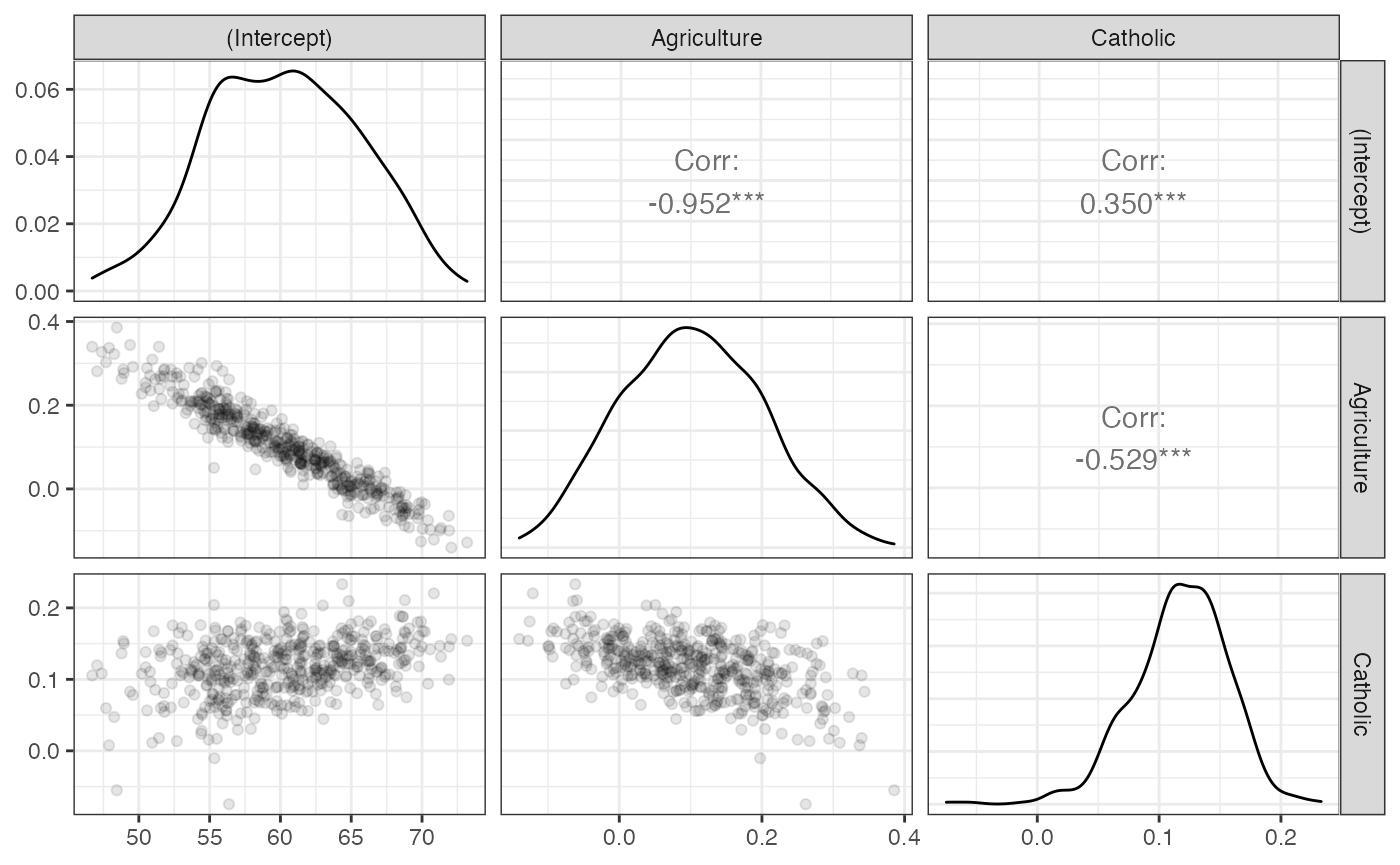
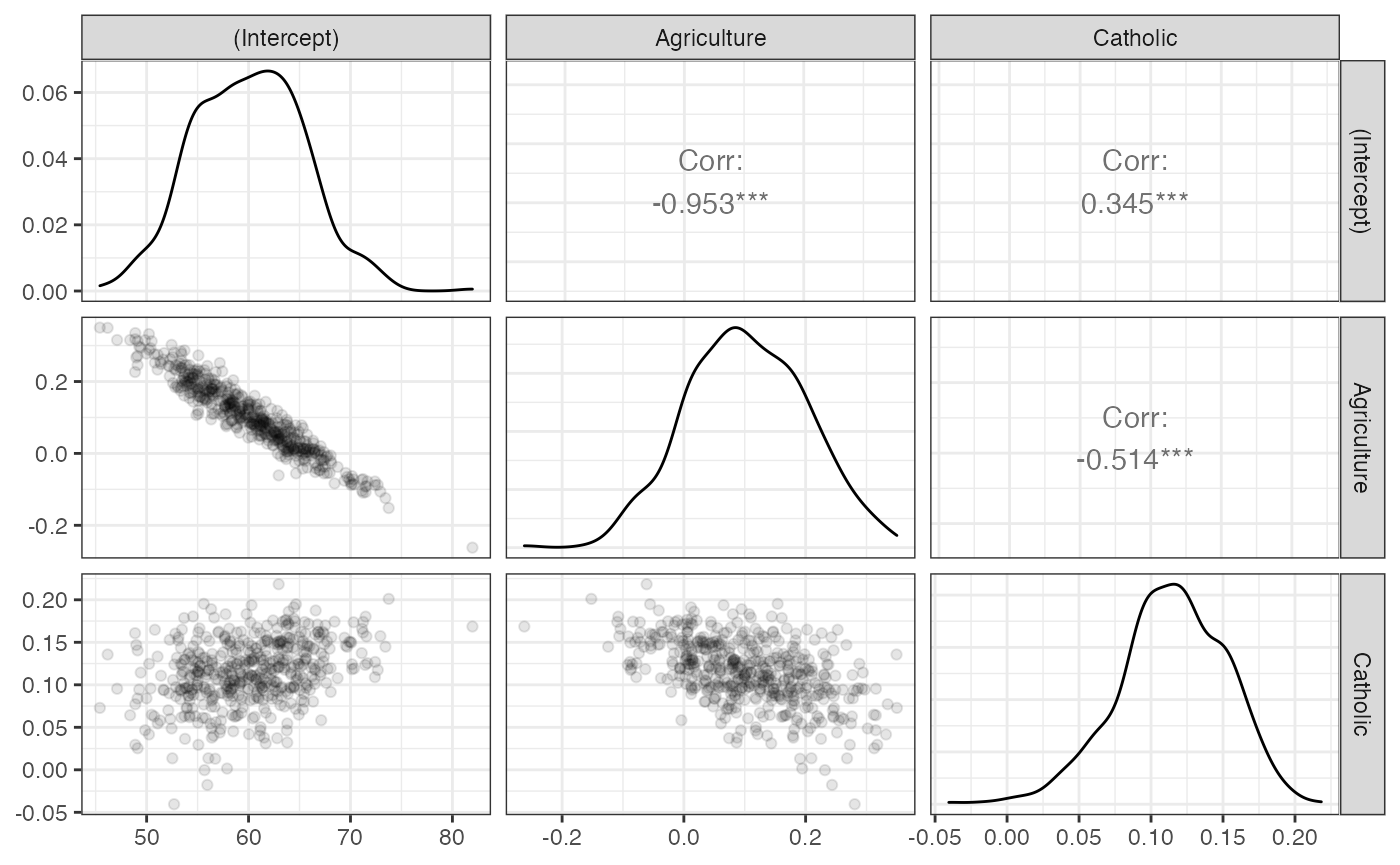
Deploying to gh-pages from  @ 894de3af3aa34b9bc925566d8cc52f96c9a7a11e 🚀

diff --git a/r/estimatr/articles/estimatr-in-the-tidyverse.html b/r/estimatr/articles/estimatr-in-the-tidyverse.html
@@ -248,7 +248,7 @@
 <col width="11%">
 <col width="10%">
 <col width="9%">
-<col width="9%">
+<col width="10%">
 <col width="9%">
 <col width="10%">
 <col width="10%">
@@ -271,72 +271,72 @@
 <tr class="odd">
 <td align="left">1</td>
 <td align="left">(Intercept)</td>
-<td align="right">54.3661192</td>
-<td align="right">4.9915686</td>
-<td align="right">10.891590</td>
+<td align="right">67.3984832</td>
+<td align="right">3.0311110</td>
+<td align="right">22.2355710</td>
 <td align="right">0.0000000</td>
-<td align="right">44.3062737</td>
-<td align="right">64.4259648</td>
+<td align="right">61.2896805</td>
+<td align="right">73.5072860</td>
 <td align="right">44</td>
 <td align="left">Fertility</td>
 </tr>
 <tr class="even">
 <td align="left">1</td>
 <td align="left">Catholic</td>
-<td align="right">0.1758683</td>
-<td align="right">0.0386889</td>
-<td align="right">4.545705</td>
-<td align="right">0.0000425</td>
-<td align="right">0.0978960</td>
-<td align="right">0.2538406</td>
+<td align="right">0.1332200</td>
+<td align="right">0.0265737</td>
+<td align="right">5.0132218</td>
+<td align="right">0.0000092</td>
+<td align="right">0.0796641</td>
+<td align="right">0.1867758</td>
 <td align="right">44</td>
 <td align="left">Fertility</td>
 </tr>
 <tr class="odd">
 <td align="left">1</td>
 <td align="left">Agriculture</td>
-<td align="right">0.2012890</td>
-<td align="right">0.1085682</td>
-<td align="right">1.854032</td>
-<td align="right">0.0704455</td>
-<td align="right">-0.0175159</td>
-<td align="right">0.4200939</td>
+<td align="right">0.0036517</td>
+<td align="right">0.0514052</td>
+<td align="right">0.0710381</td>
+<td align="right">0.9436894</td>
+<td align="right">-0.0999486</td>
+<td align="right">0.1072521</td>
 <td align="right">44</td>
 <td align="left">Fertility</td>
 </tr>
 <tr class="even">
 <td align="left">2</td>
 <td align="left">(Intercept)</td>
-<td align="right">55.5625625</td>
-<td align="right">6.2491799</td>
-<td align="right">8.891177</td>
+<td align="right">69.4111854</td>
+<td align="right">6.4872572</td>
+<td align="right">10.6996197</td>
 <td align="right">0.0000000</td>
-<td align="right">42.9681679</td>
-<td align="right">68.1569571</td>
+<td align="right">56.3369775</td>
+<td align="right">82.4853933</td>
 <td align="right">44</td>
 <td align="left">Fertility</td>
 </tr>
 <tr class="odd">
 <td align="left">2</td>
 <td align="left">Catholic</td>
-<td align="right">0.1123833</td>
-<td align="right">0.0337585</td>
-<td align="right">3.329041</td>
-<td align="right">0.0017693</td>
-<td align="right">0.0443476</td>
-<td align="right">0.1804190</td>
+<td align="right">0.1553858</td>
+<td align="right">0.0333571</td>
+<td align="right">4.6582544</td>
+<td align="right">0.0000295</td>
+<td align="right">0.0881590</td>
+<td align="right">0.2226126</td>
 <td align="right">44</td>
 <td align="left">Fertility</td>
 </tr>
 <tr class="even">
 <td align="left">2</td>
 <td align="left">Agriculture</td>
-<td align="right">0.1474588</td>
-<td align="right">0.1105254</td>
-<td align="right">1.334161</td>
-<td align="right">0.1890153</td>
-<td align="right">-0.0752906</td>
-<td align="right">0.3702082</td>
+<td align="right">-0.0758064</td>
+<td align="right">0.1277937</td>
+<td align="right">-0.5931933</td>
+<td align="right">0.5560888</td>
+<td align="right">-0.3333576</td>
+<td align="right">0.1817449</td>
 <td align="right">44</td>
 <td align="left">Fertility</td>
 </tr>
@@ -350,9 +350,9 @@
 <pre><code>## # A tibble: 3 x 2
 ##   term        boot_se
 ##   &lt;chr&gt;         &lt;dbl&gt;
-## 1 (Intercept)  5.28  
-## 2 Agriculture  0.0981
-## 3 Catholic     0.0393</code></pre>
+## 1 (Intercept)  5.38  
+## 2 Agriculture  0.0984
+## 3 Catholic     0.0380</code></pre>
 <div class="sourceCode" id="cb15"><pre class="downlit sourceCode r">
 <code class="sourceCode R"><span class="co"># To visualize the sampling distribution</span>
 

diff --git a/r/estimatr/articles/absorbing-fixed-effects.html b/r/estimatr/articles/absorbing-fixed-effects.html
@@ -191,9 +191,9 @@
 <span class="op">)</span></code></pre></div>
 <pre><code>## Unit: milliseconds
 ##             expr       min        lq      mean    median        uq      max
-##  base + sandwich 168.34029 173.19755 188.28739 176.08135 183.64563 329.7672
-##        lm_robust  76.38909  78.98336  82.09823  79.97187  82.87619 100.2672
-##  lm_robust + fes  46.28101  49.48354  53.80830  50.46210  52.25601 181.2666
+##  base + sandwich 170.00203 176.20535 189.79725 179.90318 183.49673 302.8220
+##        lm_robust  79.02297  81.55357  85.58954  84.37711  86.56606 109.9795
+##  lm_robust + fes  49.84916  51.60572  56.35871  52.74167  54.52213 191.3705
 ##  neval cld
 ##     50   c
 ##     50  b 
@@ -220,14 +220,14 @@
   times <span class="op">=</span> <span class="fl">50</span>
 <span class="op">)</span></code></pre></div>
 <pre><code>## Unit: milliseconds
-##             expr        min         lq      mean     median        uq       max
-##  base + sandwich 168.874789 173.927649 189.36860 177.292975 183.93450 310.90597
-##        lm_robust  58.094615  62.384466  66.00093  64.610485  67.80105 103.48640
-##  lm_robust + fes   6.972247   7.532425   8.42899   7.952552   8.45469  14.77249
-##  neval cld
-##     50   c
-##     50  b 
-##     50 a</code></pre>
+##             expr        min         lq       mean     median        uq
+##  base + sandwich 171.714344 177.045024 191.895777 179.739116 184.88900
+##        lm_robust  61.598062  64.492732  68.686427  68.079284  70.87183
+##  lm_robust + fes   7.468857   7.767981   8.794351   8.350571   8.95299
+##        max neval cld
+##  316.20437    50   c
+##   91.76514    50  b 
+##   13.68861    50 a</code></pre>
 </div>
   </div>
 

diff --git a/r/estimatr/reference/starprep.html b/r/estimatr/reference/starprep.html
@@ -239,7 +239,7 @@ the preferred, robust statistics.</p>
           omit.stat <span class='op'>=</span> <span class='st'>"f"</span><span class='op'>)</span>
 </div><div class='output co'>#&gt; 
 #&gt; % Table created by stargazer v.5.2.2 by Marek Hlavac, Harvard University. E-mail: hlavac at fas.harvard.edu
-#&gt; % Date and time: Fri, Jun 11, 2021 - 23:08:18
+#&gt; % Date and time: Sat, Jun 12, 2021 - 23:07:36
 #&gt; \begin{table}[!htbp] \centering 
 #&gt;   \caption{} 
 #&gt;   \label{} 
@@ -279,7 +279,7 @@ the preferred, robust statistics.</p>
           omit.stat <span class='op'>=</span> <span class='st'>"f"</span><span class='op'>)</span>
 </div><div class='output co'>#&gt; 
 #&gt; % Table created by stargazer v.5.2.2 by Marek Hlavac, Harvard University. E-mail: hlavac at fas.harvard.edu
-#&gt; % Date and time: Fri, Jun 11, 2021 - 23:08:18
+#&gt; % Date and time: Sat, Jun 12, 2021 - 23:07:36
 #&gt; \begin{table}[!htbp] \centering 
 #&gt;   \caption{} 
 #&gt;   \label{} 
@@ -316,7 +316,7 @@ the preferred, robust statistics.</p>
           omit.stat <span class='op'>=</span> <span class='st'>"f"</span><span class='op'>)</span>
 </div><div class='output co'>#&gt; 
 #&gt; % Table created by stargazer v.5.2.2 by Marek Hlavac, Harvard University. E-mail: hlavac at fas.harvard.edu
-#&gt; % Date and time: Fri, Jun 11, 2021 - 23:08:18
+#&gt; % Date and time: Sat, Jun 12, 2021 - 23:07:36
 #&gt; \begin{table}[!htbp] \centering 
 #&gt;   \caption{} 
 #&gt;   \label{} 

diff --git a/r/estimatr/articles/regression-tables.html b/r/estimatr/articles/regression-tables.html
@@ -258,7 +258,7 @@
 <span class="va">fit</span> <span class="op">&lt;-</span> <span class="fu"><a href="../reference/lm_robust.html">lm_robust</a></span><span class="op">(</span><span class="va">mpg</span> <span class="op">~</span> <span class="va">disp</span>, data <span class="op">=</span> <span class="va">mtcars</span><span class="op">)</span>
 <span class="va">fit</span> <span class="op">%&gt;%</span> <span class="va">tidy</span> <span class="op">%&gt;%</span> <span class="fu"><a href="https://rdrr.io/pkg/xtable/man/xtable.html">xtable</a></span><span class="op">(</span><span class="op">)</span></code></pre></div>
 <pre><code>## % latex table generated in R 4.1.0 by xtable 1.8-4 package
-## % Fri Jun 11 23:09:22 2021
+## % Sat Jun 12 23:08:42 2021
 ## \begin{table}[ht]
 ## \centering
 ## \begin{tabular}{rlrrrrrrrl}
